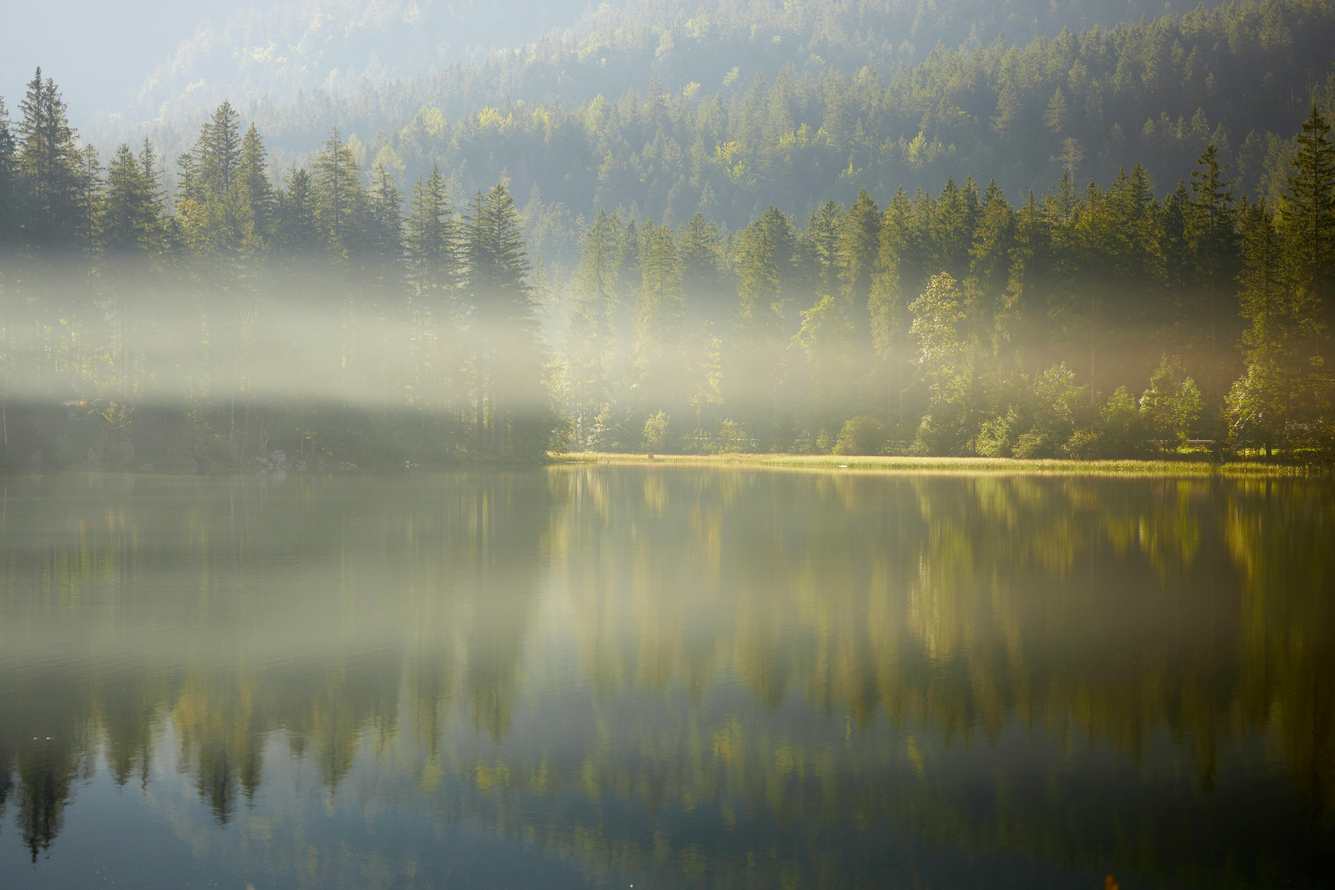
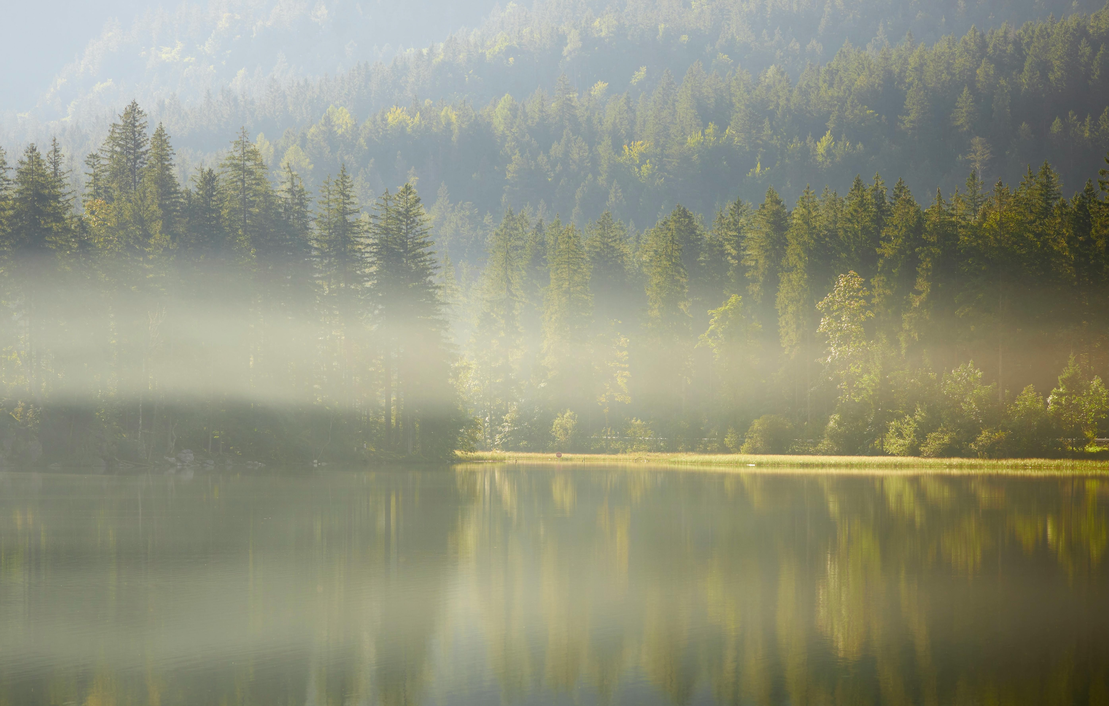
Background images fixes

diff --git a/index.html b/index.html
@@ -359,6 +359,7 @@ let addOnAudioLoaded = false;
 let sfxLoaded = false; 
 let audioInitiated = false;
 let mouseInPad = false;
+let isBackgroundTransitioning = false;
 let lastMouseX = 0; // Last known X position of the mouse/touch
 let lastMouseY = 0; // Last known Y position of the mouse/touch
 
@@ -502,14 +503,17 @@ const dayBackgrounds = [
     'images/Woods_Day_2.jpg',
     'images/Woods_Day_3.jpg',
     'images/Woods_Day_4.jpg',
-    'images/Woods_Day_5.jpg'
+    'images/Woods_Day_5.jpg',
+    'images/Woods_Day_6.jpg',
+    'images/Woods_Day_7.jpg',
 ];
 const nightBackgrounds = [
     'images/Woods_Night_1.jpg',
     'images/Woods_Night_2.jpg',
     'images/Woods_Night_3.jpg',
     'images/Woods_Night_4.jpg',
-    'images/Woods_Night_5.jpg'
+    'images/Woods_Night_5.jpg',
+    'images/Woods_Night_6.jpg',
 ];
 // Core constants
 const FADE_BUFFER_DISTANCE = 150
@@ -703,26 +707,54 @@ async function loadAddOnAudio() {
         return false;
     }
 }
-// --- Image Background Functions (Unchanged) ---
+// --- Image Background Functions (Fixed Randomization) ---
 function getRandomBackground(mode) {
     const allImages = mode === 'Day' ? dayBackgrounds : nightBackgrounds;
     const lastImages = mode === 'Day' ? lastDayImages : lastNightImages;
     
-    // Logic for selecting a new random image... 
-    const newImage = allImages.filter(img => !lastImages.includes(img))[0] || allImages[0];
+    // Filter out the images used in the last few cycles (currently the last 3)
+    const availableImages = allImages.filter(img => !lastImages.includes(img));
     
+    let newImage;
+
+    // 1. Check if there are unused images available
+    if (availableImages.length > 0) {
+        // Select a truly random index from the available images
+        const randomIndex = Math.floor(Math.random() * availableImages.length);
+        newImage = availableImages[randomIndex];
+    } else {
+        // 2. Fallback: If ALL images have been used recently, pick a random one from the full list
+        // This ensures the site doesn't crash if the array is small (e.g., 3 images)
+        const randomIndex = Math.floor(Math.random() * allImages.length);
+        newImage = allImages[randomIndex];
+    }
+    
+    // 3. Update the history array (lastDayImages or lastNightImages)
     if (mode === 'Day') {
         lastDayImages.push(newImage);
+        // Ensure the history array only holds the last 3 images
         if (lastDayImages.length > 3) lastDayImages.shift();
     } else {
         lastNightImages.push(newImage);
+        // Ensure the history array only holds the last 3 images
         if (lastNightImages.length > 3) lastNightImages.shift();
     }
     
+    // 4. Return the new image URL for the background CSS
     return `url('${newImage}')`;
 }
 
 function updateBackground(mode) {
+    // 1. **GUARD CLAUSE: CHECK DEBOUNCE FLAG**
+    if (isBackgroundTransitioning) {
+        showMessage("Background change skipped: transition in progress.", false);
+        return; 
+    }
+
+    // Set the flag to true immediately to block future calls
+    isBackgroundTransitioning = true;
+    
+    // Original transition logic starts here
     const newBackgroundURL = getRandomBackground(mode);
     nextBgLayer.style.backgroundImage = newBackgroundURL;
 
@@ -732,12 +764,17 @@ function updateBackground(mode) {
     nextBgLayer.classList.remove('bg-next');
     nextBgLayer.classList.add('bg-current');
 
+    // 2. **RESET DEBOUNCE FLAG AFTER TRANSITION TIME**
     setTimeout(() => {
+        // Cleanup the layers after the fade completes
         const temp = currentBgLayer;
         currentBgLayer = nextBgLayer;
         nextBgLayer = temp;
         nextBgLayer.style.backgroundImage = 'none';
-    }, BACKGROUND_FADE_DELAY);
+
+        // Reset the flag, allowing the next spacebar press to work
+        isBackgroundTransitioning = false; // 👈 RESET THE FLAG
+    }, BACKGROUND_FADE_DELAY); // BACKGROUND_FADE_DELAY is currently 3000ms (3 seconds)
 }
 
 // --- Audio Gain Logic (Unchanged) ---
